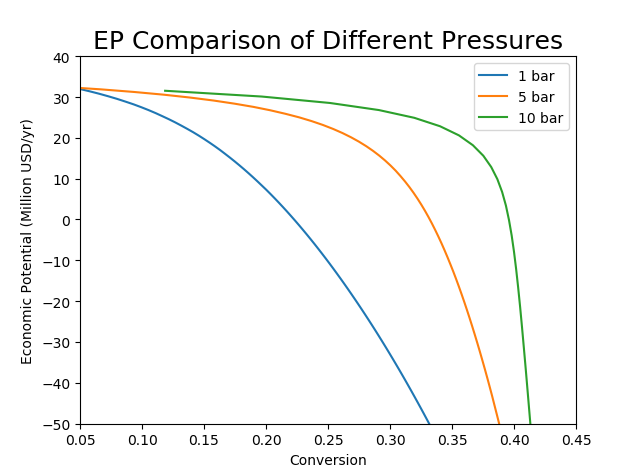
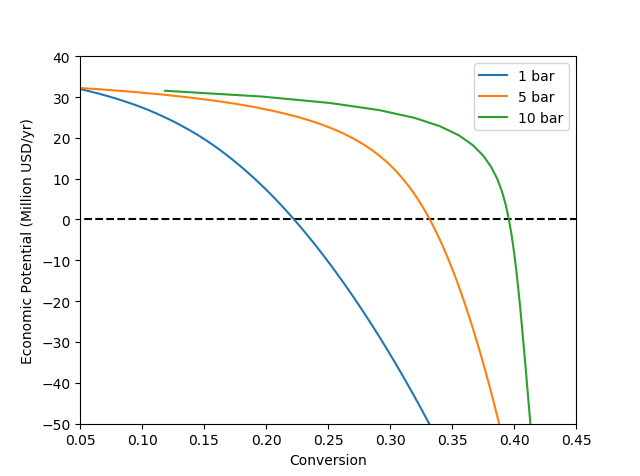
new

Changed region(s): [[0.125, 0.0588, 0.875, 0.1176], [0.5625, 0.4412, 0.8125, 0.4706], [0.1875, 0.4412, 0.4375, 0.4706]]

diff --git a/level2_plot.py b/level2_plot.py
@@ -1,6 +1,7 @@
 import pandas as pd
 import matplotlib.pyplot as plt
 import numpy as np
+from scipy.signal import savgol_filter
 
 # -------------------------------Scenario comparison---------------------------------
 # Import data
@@ -46,6 +47,7 @@ def temperature():
     plt.plot(temp_760[:,1], temp_760[:,0]/1000000, label="760K")
     plt.plot(temp_790[:,1], temp_790[:,0]/1000000, label="790K")
     plt.plot(temp_820[:,1], temp_820[:,0]/1000000, label="820K")
+    plt.hlines(0,0,100,linestyles="--")
     #plt.title("EP Comparison of Different Temperatures")
     plt.ylabel("Economic Potential (Million USD/yr)")
     plt.xlabel("Conversion")
@@ -66,6 +68,7 @@ def pressure():
     plt.plot(pres_1[:,1], pres_1[:,0]/1000000, label="1 bar")
     plt.plot(pres_5[:,1], pres_5[:,0]/1000000, label="5 bar")
     plt.plot(pres_10[:,1], pres_10[:,0]/1000000, label="10 bar")
+    plt.hlines(0,0,100,linestyles="--")
     #plt.title("EP Comparison of Different Pressures")
     plt.ylabel("Economic Potential (Million USD/yr)")
     plt.xlabel("Conversion")
@@ -97,13 +100,21 @@ plt.show()
 
 # -------------------------------Feed Ratio comparison with EP---------------------------------
 def feed_ratio_ep():
-    df = pd.read_excel("Data/graphst to seyoung.xlsx", sheet_name="EP2 different feed ratio", usecols='A:E').to_numpy()
-    plt.plot(df[:, 0], df[:, 1] / 1000000, label="MeOH 1:1 Tol")
-    plt.plot(df[:, 0], df[:, 2] / 1000000, label="MeOH 1:2 Tol")
-    plt.plot(df[:, 0], df[:, 3] / 1000000, label="MeOH 1:3 Tol")
-    plt.plot(df[:, 0], df[:, 4] / 1000000, label="MeOH 1:4 Tol")
+    one = pd.read_excel("Data/new graph seyoung 04032020.xlsx", sheet_name="Sheet1", usecols='A:B', nrows=7).to_numpy()
+    two = pd.read_excel("Data/new graph seyoung 04032020.xlsx", sheet_name="Sheet1", usecols='A:B', nrows=13, skiprows=40).to_numpy()
+    three = pd.read_excel("Data/new graph seyoung 04032020.xlsx", sheet_name="Sheet1", usecols='A:B', nrows=11, skiprows=24).to_numpy()
+    four = pd.read_excel("Data/new graph seyoung 04032020.xlsx", sheet_name="Sheet1", usecols='A:B', nrows=10, skiprows=10).to_numpy()
+
+    plt.plot(one[:, 0], one[:, 1] / 1000000, label="MeOH 1:1 Tol")
+    plt.plot(two[:, 0], two[:, 1] / 1000000, label="MeOH 1:2 Tol")
+    plt.plot(three[:, 0], three[:, 1] / 1000000, label="MeOH 1:3 Tol")
+    plt.plot(four[:, 0], four[:, 1] / 1000000, label="MeOH 1:4 Tol")
+
+    plt.hlines(0,0,100,linestyles="--")
     plt.ylabel("Economic Potential (Million USD/yr)")
     plt.xlabel("Conversion")
+    plt.xlim([0, 25])
+    plt.ylim([-45, 35])
     plt.legend()
     plt.show()
 
@@ -119,4 +130,4 @@ def sel_conv():
     plt.show()
 
 
-sel_conv()
+temperature()

diff --git a/level3_plot.py b/level3_plot.py
@@ -4,29 +4,29 @@ import numpy as np
 
 # -------------------------------Scenario comparison---------------------------------
 def heating_method():
-    df = pd.read_excel("Data/graphst to seyoung.xlsx", sheet_name="heating methods graphs", usecols='A:C').to_numpy()
-    plt.plot(df[:,0], df[:,1]/1000000, label="Pump then Compress")
-    plt.plot(df[:,0], df[:,2]/1000000, label="Heat then Compress")
+    HTC = pd.read_excel("Data/new graph seyoung 04032020.xlsx", sheet_name="Sheet3", usecols='B:J').to_numpy()
+    PMC = pd.read_excel("Data/new graph seyoung 04032020.xlsx", sheet_name="Sheet2", usecols='B:R').to_numpy()
+    plt.plot(PMC[:,0], PMC[:,5]/1000000, label="Pump then Compress")
+    plt.plot(HTC[:,0], HTC[:,8]/1000000, label="Heat then Compress")
     plt.ylabel("Opex (Million USD/yr)")
     plt.xlabel("Conversion (%)")
     plt.legend()
     plt.show()
 
 def cost_optimal():
-    df = pd.read_excel("Data/graphst to seyoung.xlsx", sheet_name="EP3 cost atoptimal capex & opex", usecols='A:B').to_numpy()
-    plt.plot(df[:, 0], df[:, 1] / 1000000)
+    df = pd.read_excel("Data/new graph seyoung 04032020.xlsx", sheet_name="Sheet2", usecols='B:R').to_numpy()
+    plt.plot(df[:, 0], df[:, 14] / 1000000)
     plt.ylabel("Cost (Million USD/yr)")
     plt.xlabel("Conversion (%)")
     plt.show()
 
 def ep3_optimal():
-    df = pd.read_excel("Data/graphst to seyoung.xlsx", sheet_name="EP3", usecols='A:B').to_numpy()
-    plt.plot(df[:, 0], df[:, 1] / 1000000)
+    df = pd.read_excel("Data/new graph seyoung 04032020.xlsx", sheet_name="Sheet2", usecols='B:R').to_numpy()
+    plt.plot(df[:, 0], df[:, 16] / 1000000)
     plt.hlines(0,0,100,linestyles="--")
-    plt.ylabel("Cost (Million USD/yr)")
+    plt.ylabel("Economic Potential (Million USD/yr)")
     plt.xlabel("Conversion (%)")
     plt.xlim([0, 25])
     plt.show()
 
-cost_optimal()
-ep3_optimal()
+heating_method()
